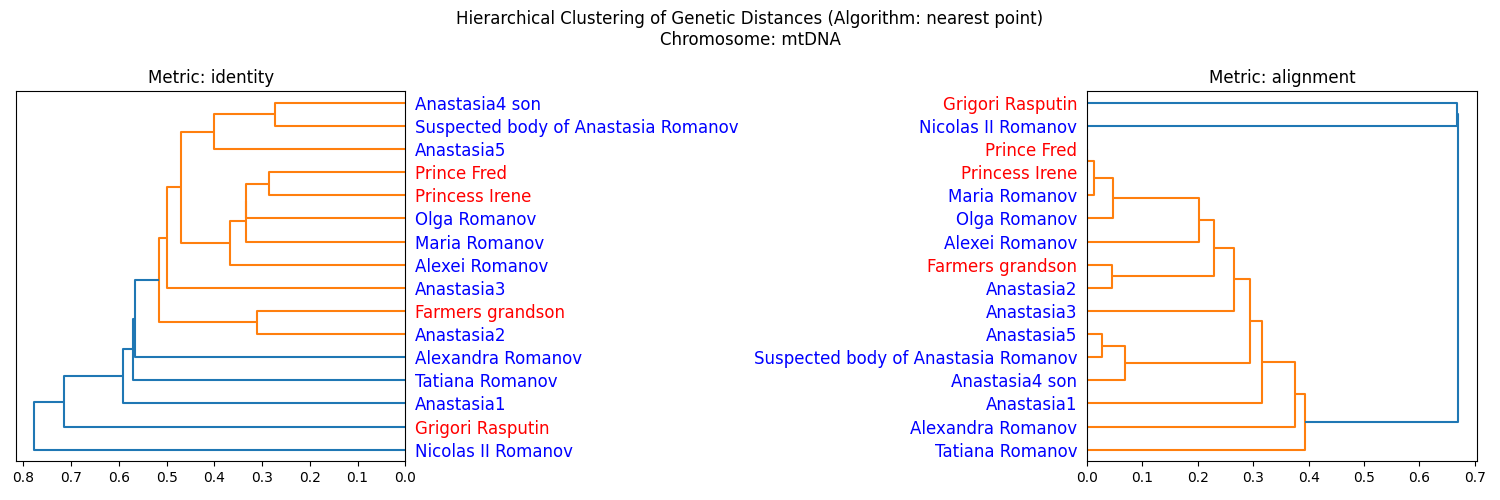
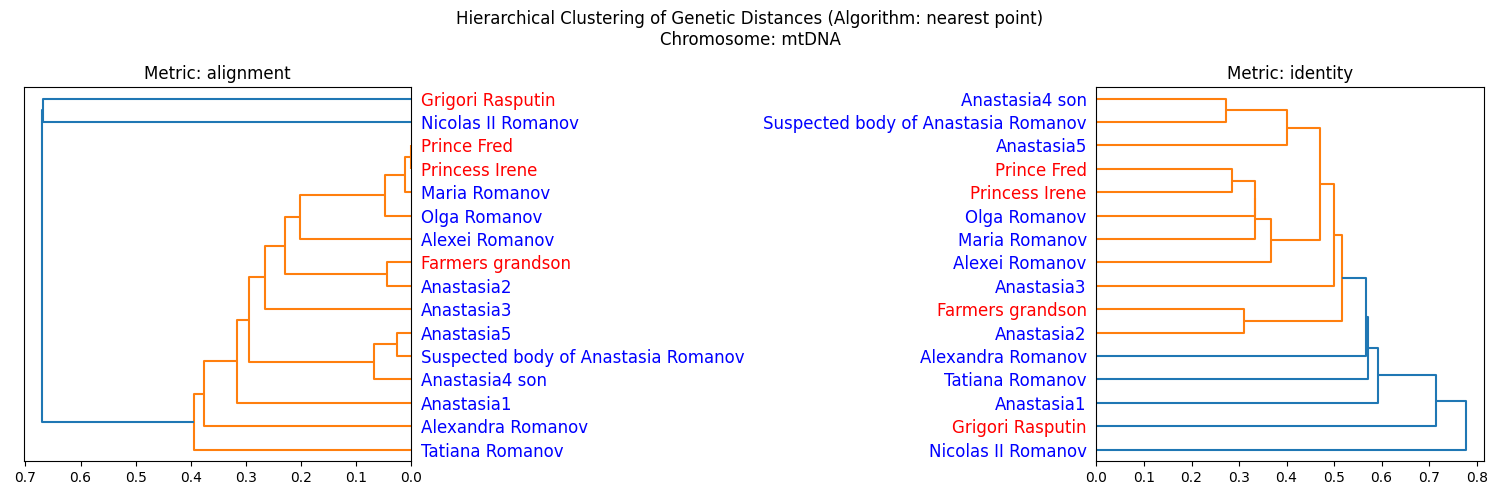
created colab notebook

diff --git a/src/partiiiprograms/PlotDistMatrices.py b/src/partiiiprograms/PlotDistMatrices.py
@@ -321,20 +321,18 @@ def custom_dendrogram(input_files):
                 # If the label matches any entry in the array romanovs, set the label to blue.
                 if romanov.lower() in plot_label.get_text().lower():
                     plot_label.set_color("blue")
-                    print(plot_label, "blue")
                     break
                 elif k < len(romanovs) - 1:
                     pass
                 # If all romanov names have been checked, set the label to red.
                 else:
                     plot_label.set_color("red")
-                    print(plot_label, "red")
 
         # Set title of the subplot
-        ax.set_title(f"Metric: {metric}")
+        ax.set_title(f"Metric: {metric[0].upper() + metric[1:]}")
     # Set the title of the full plot and save.
     fig.suptitle(
-        f"Hierarchical Clustering of Genetic Distances (Algorithm: nearest point)\nChromosome: {chromosome}"
+        f"Hierarchical Clustering of Genetic Distances (Algorithm: Nearest Point)\nChromosome: {chromosome}"
     )
     plt.tight_layout()
     plt.savefig(f"dendrogram_{chromosome}.png")
@@ -344,7 +342,7 @@ def custom_dendrogram(input_files):
 def custom_heatmap(input_files):
     # Set subplots based on input files passed
     fig, axs = plt.subplots(
-        1, len(input_files), figsize=(10 + 5 * (len(input_files) - 1), 5)
+        1, len(input_files), figsize=(5 + 5 * (len(input_files) - 1), 5)
     )
 
     # Loop through input files, creating subplots
@@ -367,9 +365,7 @@ def custom_heatmap(input_files):
         data = np.negative(data)
         # Plot image
         im = ax.imshow(data, cmap="nipy_spectral")
-        # Create a color bar only once.
-        if i == len(input_files) - 1:
-            cbar = ax.figure.colorbar(im)
+        cbar = ax.figure.colorbar(im)
 
         # Update tick labels
         xticks, yticks = list(labels), list(labels)
@@ -377,7 +373,7 @@ def custom_heatmap(input_files):
         ax.set_yticks(range(len(labels)), yticks)
 
         # Set subtitle
-        ax.set_title(f"Metric: {metric}")
+        ax.set_title(f"Metric: {metric[0].upper() + metric[1:]}")
 
     # Set title and save
     fig.suptitle(f"Negative Genetic Distance Heatmap\nChromosome: {chromosome}")

diff --git a/src/partiiiprograms/.ipynb_checkpoints/PlotDistMatrices-checkpoint.py b/src/partiiiprograms/.ipynb_checkpoints/PlotDistMatrices-checkpoint.py
@@ -329,10 +329,10 @@ def custom_dendrogram(input_files):
                     plot_label.set_color("red")
 
         # Set title of the subplot
-        ax.set_title(f"Metric: {metric}")
+        ax.set_title(f"Metric: {metric[0].upper() + metric[1:]}")
     # Set the title of the full plot and save.
     fig.suptitle(
-        f"Hierarchical Clustering of Genetic Distances (Algorithm: nearest point)\nChromosome: {chromosome}"
+        f"Hierarchical Clustering of Genetic Distances (Algorithm: Nearest Point)\nChromosome: {chromosome}"
     )
     plt.tight_layout()
     plt.savefig(f"dendrogram_{chromosome}.png")
@@ -342,7 +342,7 @@ def custom_dendrogram(input_files):
 def custom_heatmap(input_files):
     # Set subplots based on input files passed
     fig, axs = plt.subplots(
-        1, len(input_files), figsize=(10 + 5 * (len(input_files) - 1), 5)
+        1, len(input_files), figsize=(5 + 5 * (len(input_files) - 1), 5)
     )
 
     # Loop through input files, creating subplots
@@ -365,9 +365,7 @@ def custom_heatmap(input_files):
         data = np.negative(data)
         # Plot image
         im = ax.imshow(data, cmap="nipy_spectral")
-        # Create a color bar only once.
-        if i == len(input_files) - 1:
-            cbar = ax.figure.colorbar(im)
+        cbar = ax.figure.colorbar(im)
 
         # Update tick labels
         xticks, yticks = list(labels), list(labels)
@@ -375,7 +373,7 @@ def custom_heatmap(input_files):
         ax.set_yticks(range(len(labels)), yticks)
 
         # Set subtitle
-        ax.set_title(f"Metric: {metric}")
+        ax.set_title(f"Metric: {metric[0].upper() + metric[1:]}")
 
     # Set title and save
     fig.suptitle(f"Negative Genetic Distance Heatmap\nChromosome: {chromosome}")

diff --git a/src/partiiiprograms/CalculateHapmap.py b/src/partiiiprograms/CalculateHapmap.py
@@ -23,7 +23,7 @@ elif len(sys.argv) < 5:
     if not sys.argv[3].endswith(".tsv"):
         sys.exit("The output file path must be a .tsv file.")
 else:
-    sys.exis(
+    sys.exit(
         "Too many arguments. Please pass at most an input file, a chromosome name, and an output file"
     )
 
@@ -90,14 +90,6 @@ def read_chromosomes(input_file, chromo_name):
 
 
 seqs = read_chromosomes(input_file, chromo_name)
-
-# Unique values (delete later)
-unique_seqs = []
-for s in seqs:
-    if s not in unique_seqs:
-        unique_seqs.append(s)
-print("\n", "Number of sequences: ", len(seqs))
-print("Number of unique sequences: ", len(unique_seqs), "\n")
 
 # Check that at least one sequence was found
 if len(seqs) < 3:
